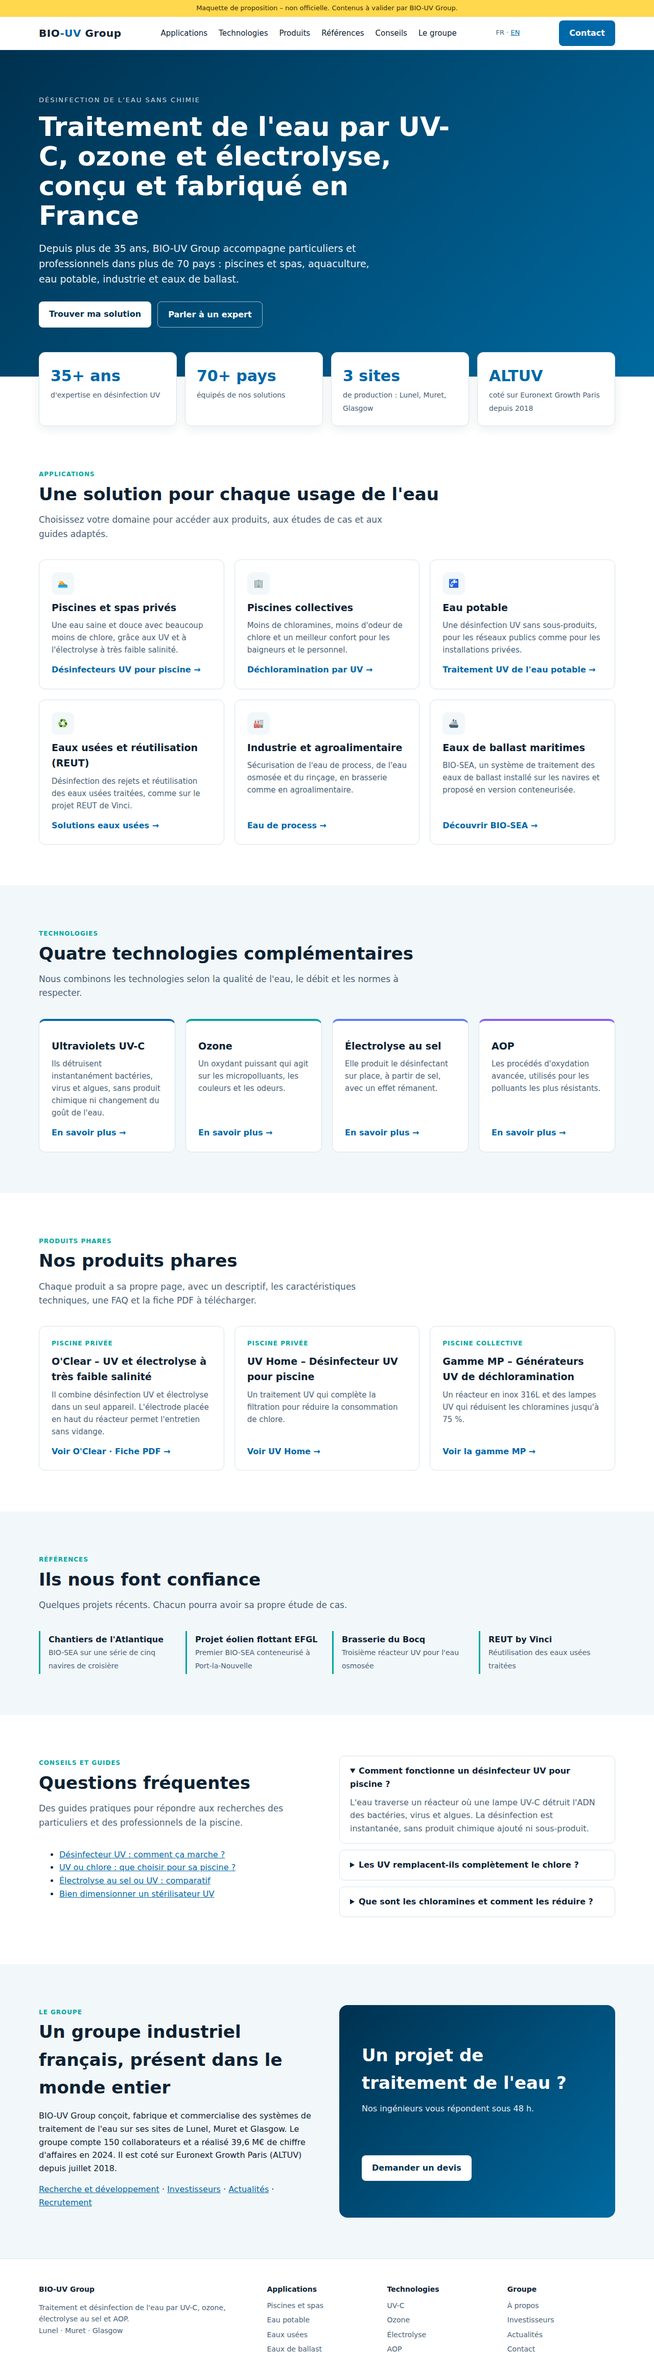
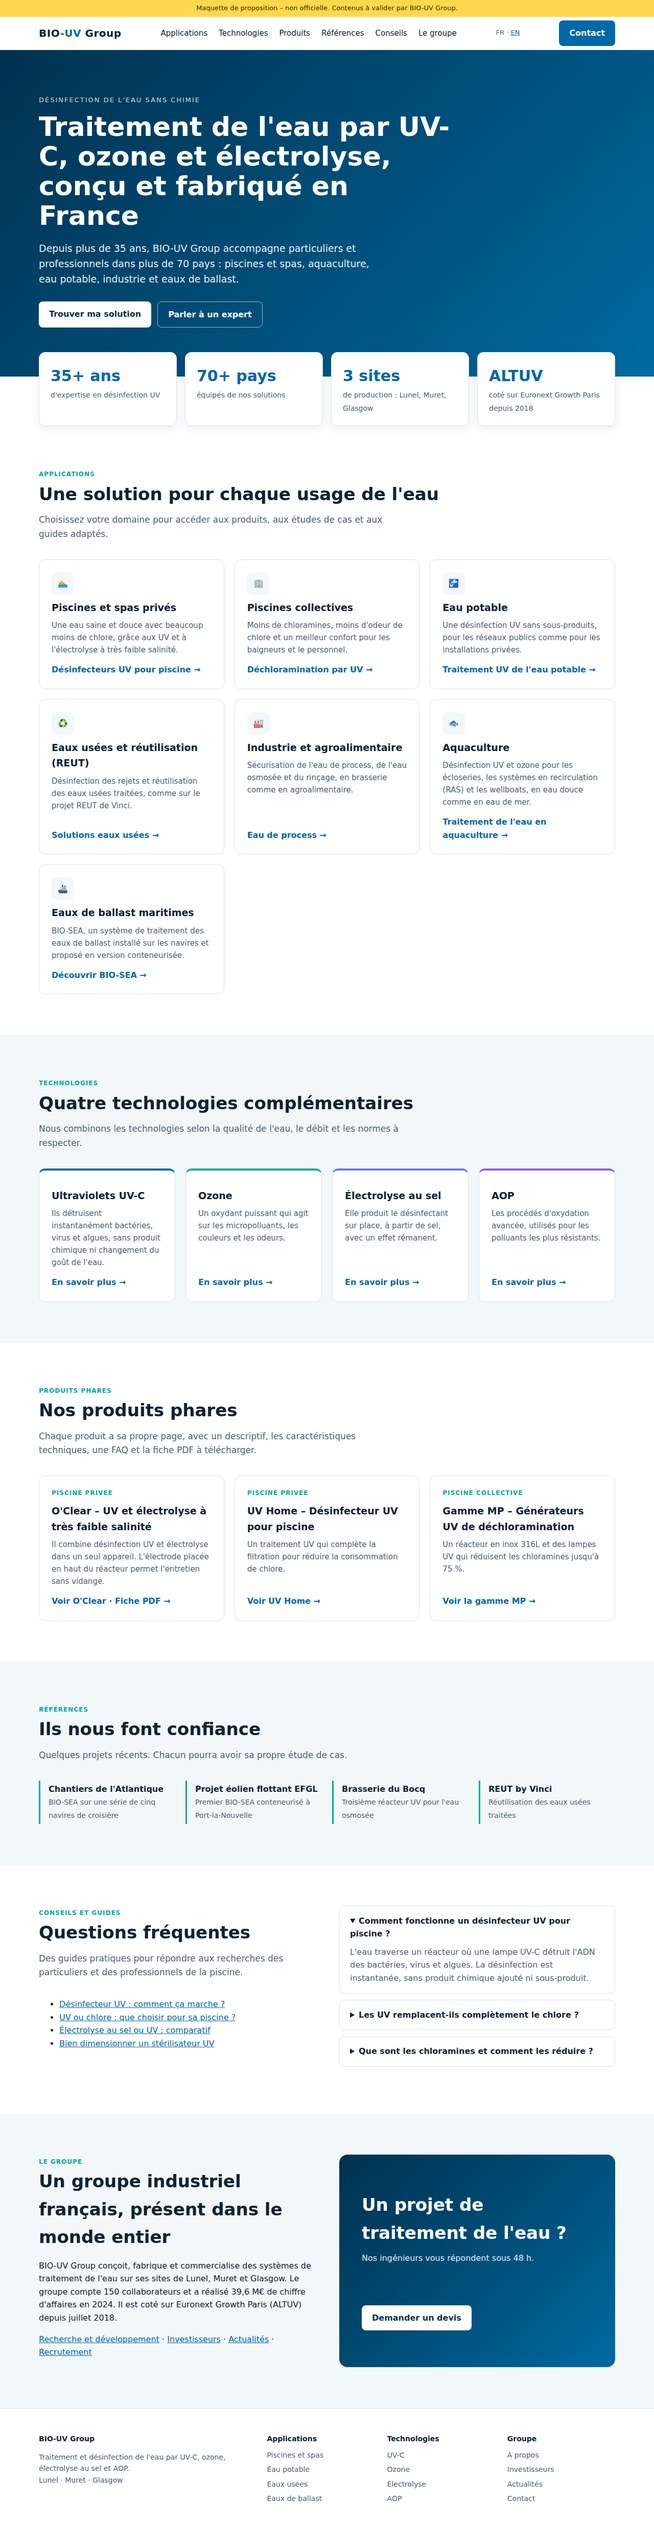
Add aquaculture division page to BIO-UV mockup and link it from homepage
Claude-Session: https://claude.ai/code/session_01VvC67jKEJB5b4yxnGfWvWf

diff --git a/proposals/bio-uv/aquaculture.html b/proposals/bio-uv/aquaculture.html
@@ -1,0 +1,363 @@
+<!doctype html>
+<html lang="fr">
+<head>
+<meta charset="utf-8">
+<meta name="viewport" content="width=device-width, initial-scale=1">
+<title>Traitement de l'eau en aquaculture : UV et ozone pour RAS, écloseries et wellboats | BIO-UV</title>
+<meta name="description" content="Désinfection UV et ozone pour l'aquaculture : écloseries, systèmes en recirculation (RAS) et wellboats. Moins de mortalité, sans chimie, en eau douce comme en eau de mer. Réacteurs fermés, canaux ouverts, générateurs d'ozone.">
+<link rel="canonical" href="https://www.bio-uv.com/fr/solutions/aquaculture/">
+<link rel="alternate" hreflang="fr" href="https://www.bio-uv.com/fr/solutions/aquaculture/">
+<link rel="alternate" hreflang="en" href="https://www.bio-uv.com/en/solutions/aquaculture/">
+<link rel="alternate" hreflang="x-default" href="https://www.bio-uv.com/en/solutions/aquaculture/">
+<meta property="og:type" content="website">
+<meta property="og:title" content="Aquaculture : désinfection UV et ozone | BIO-UV Group">
+<meta property="og:description" content="Des solutions UV et ozone pour les écloseries, les RAS et les wellboats, en eau douce comme en eau de mer.">
+<script type="application/ld+json">
+{
+  "@context": "https://schema.org",
+  "@graph": [
+    { "@type": "BreadcrumbList", "itemListElement": [
+      { "@type": "ListItem", "position": 1, "name": "Accueil", "item": "https://www.bio-uv.com/fr/" },
+      { "@type": "ListItem", "position": 2, "name": "Solutions", "item": "https://www.bio-uv.com/fr/solutions/" },
+      { "@type": "ListItem", "position": 3, "name": "Aquaculture", "item": "https://www.bio-uv.com/fr/solutions/aquaculture/" } ] },
+    { "@type": "FAQPage", "mainEntity": [
+      { "@type": "Question", "name": "UV ou ozone : que choisir pour un élevage aquacole ?",
+        "acceptedAnswer": { "@type": "Answer", "text": "Les UV désinfectent l'eau sans laisser de résidu. L'ozone désinfecte aussi, mais en plus il oxyde la matière organique, clarifie l'eau et augmente l'oxygène dissous. En RAS, on combine souvent les deux : l'ozone pour la qualité de l'eau, puis les UV pour la désinfection finale et l'élimination de l'ozone résiduel." } },
+      { "@type": "Question", "name": "Les UV fonctionnent-ils en eau de mer ?",
+        "acceptedAnswer": { "@type": "Answer", "text": "Oui. Les réacteurs sont conçus avec des matériaux résistants à la corrosion, pour l'eau douce comme pour l'eau de mer." } },
+      { "@type": "Question", "name": "Comment dimensionner un réacteur UV pour une écloserie ?",
+        "acceptedAnswer": { "@type": "Answer", "text": "Le dimensionnement dépend du débit, de la transmittance UV de l'eau et des pathogènes ciblés, qui fixent la dose UV à atteindre. Nos ingénieurs font ce calcul à partir de vos données d'exploitation." } }
+    ] }
+  ]
+}
+</script>
+<style>
+:root{
+  --bg:#ffffff; --bg-alt:#f2f7fa; --ink:#0d2233; --muted:#4a6275; --line:#d7e3ea;
+  --brand:#0068a8; --brand-ink:#ffffff; --accent:#00a6a0; --card:#ffffff;
+  --hero1:#00314f; --hero2:#006aa0;
+}
+@media (prefers-color-scheme: dark){
+  :root:not([data-theme="light"]){
+    --bg:#0b1720; --bg-alt:#11212d; --ink:#e6f0f5; --muted:#9db3c2; --line:#22394a;
+    --brand:#3fa9e8; --brand-ink:#04131c; --accent:#3fd0c9; --card:#132634;
+    --hero1:#021a2a; --hero2:#0a4569;
+  }
+}
+:root[data-theme="dark"]{
+  --bg:#0b1720; --bg-alt:#11212d; --ink:#e6f0f5; --muted:#9db3c2; --line:#22394a;
+  --brand:#3fa9e8; --brand-ink:#04131c; --accent:#3fd0c9; --card:#132634;
+  --hero1:#021a2a; --hero2:#0a4569;
+}
+*{box-sizing:border-box}
+html{scroll-behavior:smooth}
+body{margin:0;background:var(--bg);color:var(--ink);font:16px/1.6 system-ui,-apple-system,"Segoe UI",Roboto,sans-serif}
+a{color:var(--brand)}
+.wrap{max-width:1160px;margin:0 auto;padding:0 16px}
+.mock{background:#ffd84d;color:#3a2e00;text-align:center;font-size:13px;padding:6px 16px}
+header.top{position:sticky;top:0;z-index:10;background:var(--bg);border-bottom:1px solid var(--line)}
+.nav{display:flex;align-items:center;justify-content:space-between;gap:16px;height:64px}
+.logo{font-weight:800;font-size:20px;letter-spacing:.5px;color:var(--ink);text-decoration:none}
+.logo span{color:var(--brand)}
+.nav ul{display:flex;gap:22px;list-style:none;margin:0;padding:0}
+.nav ul a{color:var(--ink);text-decoration:none;font-weight:500;font-size:15px}
+.nav ul a:hover{color:var(--brand)}
+.lang{font-size:13px;color:var(--muted)}
+.btn{display:inline-block;background:var(--brand);color:var(--brand-ink);padding:12px 20px;border-radius:8px;text-decoration:none;font-weight:600}
+.btn.ghost{background:transparent;color:#fff;border:1px solid rgba(255,255,255,.6)}
+.hero{background:linear-gradient(135deg,var(--hero1),var(--hero2));color:#fff;padding:88px 0 96px}
+.hero .eyebrow{text-transform:uppercase;letter-spacing:2px;font-size:13px;opacity:.8}
+.hero h1{font-size:clamp(30px,5vw,52px);line-height:1.12;margin:12px 0 18px;max-width:820px}
+.hero p{font-size:19px;max-width:680px;opacity:.92}
+.hero .cta{display:flex;gap:12px;flex-wrap:wrap;margin-top:28px}
+.stats{display:grid;grid-template-columns:repeat(4,1fr);gap:16px;margin-top:-48px}
+.stat{background:var(--card);border:1px solid var(--line);border-radius:12px;padding:22px;box-shadow:0 6px 20px rgba(0,40,70,.08)}
+.stat b{display:block;font-size:30px;color:var(--brand)}
+.stat span{color:var(--muted);font-size:14px}
+section{padding:80px 0}
+section.alt{background:var(--bg-alt)}
+h2{font-size:clamp(24px,3.4vw,34px);margin:0 0 10px}
+.lead{color:var(--muted);max-width:720px;margin:0 0 36px;font-size:17px}
+.grid{display:grid;gap:20px}
+.g3{grid-template-columns:repeat(3,1fr)}
+.g4{grid-template-columns:repeat(4,1fr)}
+.g2{grid-template-columns:repeat(2,1fr)}
+.card{background:var(--card);border:1px solid var(--line);border-radius:12px;padding:24px;display:flex;flex-direction:column}
+.card h3{margin:10px 0 8px;font-size:19px}
+.card p{margin:0 0 14px;color:var(--muted);font-size:15px}
+.card a.more{margin-top:auto;font-weight:600;text-decoration:none}
+.ico{width:44px;height:44px;border-radius:10px;background:var(--bg-alt);display:grid;place-items:center;color:var(--brand)}
+.tag{display:inline-block;font-size:12px;font-weight:600;color:var(--accent);text-transform:uppercase;letter-spacing:1px}
+.tech{border-top:4px solid var(--brand)}
+.tech:nth-child(2){border-top-color:var(--accent)}
+.tech:nth-child(3){border-top-color:#5b7cfa}
+.tech:nth-child(4){border-top-color:#8a5cf6}
+.refs{display:grid;grid-template-columns:repeat(4,1fr);gap:20px}
+.ref{border-left:3px solid var(--accent);padding:4px 0 4px 16px}
+.ref b{display:block}
+.ref span{color:var(--muted);font-size:14px}
+details{background:var(--card);border:1px solid var(--line);border-radius:10px;padding:16px 20px;margin-bottom:12px}
+summary{cursor:pointer;font-weight:600}
+details p{color:var(--muted);margin:10px 0 0}
+.contact{background:linear-gradient(135deg,var(--hero1),var(--hero2));color:#fff;border-radius:16px;padding:44px;display:flex;justify-content:space-between;align-items:center;gap:24px;flex-wrap:wrap}
+.contact h2{color:#fff}
+.contact p{opacity:.9;margin:0}
+footer{border-top:1px solid var(--line);padding:48px 0 32px;color:var(--muted);font-size:14px}
+footer .cols{display:grid;grid-template-columns:2fr 1fr 1fr 1fr;gap:24px}
+footer h4{color:var(--ink);margin:0 0 10px;font-size:14px}
+footer ul{list-style:none;padding:0;margin:0}
+footer li{margin:6px 0}
+footer a{color:var(--muted);text-decoration:none}
+@media (max-width:900px){
+  .nav ul{display:none}
+  .stats,.g4,.refs{grid-template-columns:repeat(2,1fr)}
+  .g3{grid-template-columns:1fr 1fr}
+  footer .cols{grid-template-columns:1fr 1fr}
+}
+@media (max-width:560px){
+  .stats,.g4,.g3,.g2,.refs{grid-template-columns:1fr}
+  .hero{padding:56px 0 80px}
+  section{padding:56px 0}
+  .contact{padding:28px}
+  .lang{display:none}
+}
+</style>
+<style>
+.stat b{font-size:22px;line-height:1.25}
+.crumbs{font-size:13px;opacity:.8;margin-bottom:14px}
+.crumbs a{color:#fff}
+.flow{display:grid;grid-template-columns:repeat(5,1fr);gap:0;counter-reset:s}
+.step{position:relative;background:var(--card);border:1px solid var(--line);padding:18px;font-size:14px}
+.step:first-child{border-radius:12px 0 0 12px}.step:last-child{border-radius:0 12px 12px 0}
+.step b{display:block;margin-bottom:4px}
+.step.hl{background:var(--brand);color:var(--brand-ink);border-color:var(--brand)}
+.step.hl span{color:var(--brand-ink);opacity:.9}
+.step span{color:var(--muted)}
+table{width:100%;border-collapse:collapse;background:var(--card);border:1px solid var(--line);border-radius:12px;overflow:hidden;font-size:15px}
+th,td{text-align:left;padding:14px 16px;border-bottom:1px solid var(--line);vertical-align:top}
+th{background:var(--bg-alt)}
+.tablewrap{overflow-x:auto}
+.check{list-style:none;padding:0;margin:0}
+.check li{padding-left:26px;position:relative;margin:8px 0}
+.check li:before{content:"✓";position:absolute;left:0;color:var(--accent);font-weight:700}
+@media (max-width:900px){.flow{grid-template-columns:1fr}.step,.step:first-child,.step:last-child{border-radius:0}.step:first-child{border-radius:12px 12px 0 0}.step:last-child{border-radius:0 0 12px 12px}}
+</style>
+</head>
+<body>
+<div class="mock">Maquette de proposition – non officielle. Contenus à valider par BIO-UV Group.</div>
+
+<header class="top">
+  <div class="wrap nav">
+    <a class="logo" href="index.html">BIO<span>-UV</span> Group</a>
+    <nav aria-label="Navigation principale">
+      <ul>
+        <li><a href="index.html#applications">Applications</a></li>
+        <li><a href="index.html#technologies">Technologies</a></li>
+        <li><a href="index.html#produits">Produits</a></li>
+        <li><a href="index.html#references">Références</a></li>
+        <li><a href="index.html#conseils">Conseils</a></li>
+        <li><a href="index.html#groupe">Le groupe</a></li>
+      </ul>
+    </nav>
+    <span class="lang">FR · <a href="#">EN</a></span>
+    <a class="btn" href="#contact">Contact</a>
+  </div>
+</header>
+
+<main>
+  <section class="hero" aria-labelledby="h1">
+    <div class="wrap">
+      <nav class="crumbs" aria-label="Fil d'Ariane"><a href="index.html">Accueil</a> › <a href="index.html#applications">Solutions</a> › Aquaculture</nav>
+      <div class="eyebrow">Aquaculture et pisciculture</div>
+      <h1 id="h1">Traitement de l'eau en aquaculture : désinfection UV et ozone pour écloseries, RAS et wellboats</h1>
+      <p>Des poissons, crustacés et mollusques en meilleure santé, une mortalité réduite et des rejets plus propres, sans produits chimiques, en eau douce comme en eau de mer.</p>
+      <div class="cta">
+        <a class="btn" href="#contact" style="background:#fff;color:#00314f">Dimensionner mon installation</a>
+        <a class="btn ghost" href="#usages">Voir les solutions</a>
+      </div>
+    </div>
+  </section>
+
+  <div class="wrap stats" aria-label="Bénéfices clés">
+    <div class="stat"><b>Sans chimie</b><span>ni résidu dans les bassins</span></div>
+    <div class="stat"><b>Eau douce et eau de mer</b><span>des matériaux résistants à la corrosion</span></div>
+    <div class="stat"><b>UV + ozone</b><span>une seule source pour les deux technologies</span></div>
+    <div class="stat"><b>Écloserie → wellboat</b><span>du naissain au transport du poisson vivant</span></div>
+  </div>
+
+  <section id="enjeux" aria-labelledby="h-enj">
+    <div class="wrap grid g2" style="gap:48px;align-items:center">
+      <div>
+        <span class="tag">Enjeux</span>
+        <h2 id="h-enj">La qualité de l'eau décide de la rentabilité de l'élevage</h2>
+        <p class="lead" style="margin-bottom:16px">Dans un élevage intensif, un seul pathogène peut décimer un lot. Il faut maîtriser la qualité de l'eau à chaque étape, sans fragiliser les animaux ni l'environnement.</p>
+        <ul class="check">
+          <li>Réduire la mortalité et le recours aux traitements médicamenteux</li>
+          <li>Garder une eau claire et bien oxygénée en recirculation</li>
+          <li>Respecter les exigences de biosécurité et de rejet</li>
+          <li>Limiter l'entretien et la consommation d'énergie</li>
+        </ul>
+      </div>
+      <div class="card">
+        <span class="tag">Pathogènes ciblés</span>
+        <h3>Les UV et l'ozone inactivent :</h3>
+        <p>les bactéries (vibrioses, furonculose…), les virus, les parasites, les champignons et les algues présents dans l'eau d'appoint, l'eau recirculée ou l'eau rejetée.</p>
+        <p style="margin:0"><em>À compléter par BIO-UV avec les doses de référence par pathogène.</em></p>
+      </div>
+    </div>
+  </section>
+
+  <section id="usages" class="alt" aria-labelledby="h-us">
+    <div class="wrap">
+      <span class="tag">Solutions par usage</span>
+      <h2 id="h-us">Une solution pour chaque étape de l'élevage</h2>
+      <p class="lead">Chaque usage a sa page dédiée, optimisée pour sa propre recherche (« UV écloserie », « ozone RAS », « désinfection wellboat »…).</p>
+      <div class="grid g3">
+        <article class="card">
+          <div class="ico" aria-hidden="true">🥚</div>
+          <h3>Écloseries et nurseries</h3>
+          <p>Protection des œufs, des larves et du naissain, aux stades les plus sensibles. Désinfection UV de l'eau d'arrivée et de l'eau recirculée.</p>
+          <a class="more" href="#">UV pour écloserie →</a>
+        </article>
+        <article class="card">
+          <div class="ico" aria-hidden="true">🔁</div>
+          <h3>Systèmes en recirculation (RAS)</h3>
+          <p>L'ozone oxyde la matière organique, clarifie l'eau et augmente l'oxygène dissous. Les UV assurent ensuite la désinfection finale.</p>
+          <a class="more" href="#">Ozone et UV pour RAS →</a>
+        </article>
+        <article class="card">
+          <div class="ico" aria-hidden="true">🚢</div>
+          <h3>Wellboats</h3>
+          <p>Désinfection de l'eau entre deux chargements pour limiter la transmission de maladies d'un site à l'autre. Les systèmes sont compacts et conçus pour le milieu marin.</p>
+          <a class="more" href="#">Désinfection des wellboats →</a>
+        </article>
+        <article class="card">
+          <div class="ico" aria-hidden="true">🐟</div>
+          <h3>Pisciculture en eau douce</h3>
+          <p>Truite, esturgeon, perche… Traitement de l'eau d'appoint et des rejets dans les élevages en circuit ouvert ou semi-fermé.</p>
+          <a class="more" href="#">Pisciculture eau douce →</a>
+        </article>
+        <article class="card">
+          <div class="ico" aria-hidden="true">🦐</div>
+          <h3>Crustacés et coquillages</h3>
+          <p>Crevettes, huîtres, moules… Purification et sécurisation de l'eau de mer pour l'élevage et la dépuration.</p>
+          <a class="more" href="#">Conchyliculture et crevettes →</a>
+        </article>
+        <article class="card">
+          <div class="ico" aria-hidden="true">🌊</div>
+          <h3>Traitement des rejets</h3>
+          <p>Désinfection de l'eau rejetée pour protéger le milieu naturel et les populations sauvages.</p>
+          <a class="more" href="#">Rejets aquacoles →</a>
+        </article>
+      </div>
+    </div>
+  </section>
+
+  <section id="ras" aria-labelledby="h-ras">
+    <div class="wrap">
+      <span class="tag">Exemple de chaîne de traitement</span>
+      <h2 id="h-ras">Où placer l'ozone et les UV dans une boucle RAS</h2>
+      <p class="lead">Un schéma type, à adapter à chaque installation. Les étapes en couleur sont celles que couvre BIO-UV Group.</p>
+      <div class="flow">
+        <div class="step"><b>1. Bassins d'élevage</b><span>Eau chargée en matière organique</span></div>
+        <div class="step"><b>2. Filtration mécanique</b><span>Tamis ou filtre à tambour</span></div>
+        <div class="step"><b>3. Biofiltre</b><span>Nitrification</span></div>
+        <div class="step hl"><b>4. Ozone</b><span>Oxydation, clarification, oxygène dissous</span></div>
+        <div class="step hl"><b>5. UV-C</b><span>Désinfection finale et élimination de l'ozone résiduel</span></div>
+      </div>
+    </div>
+  </section>
+
+  <section id="technologies" class="alt" aria-labelledby="h-tech">
+    <div class="wrap">
+      <span class="tag">Technologies</span>
+      <h2 id="h-tech">UV ou ozone : comment choisir ?</h2>
+      <p class="lead">Les deux technologies se complètent. Ce tableau aide à les comparer ; nos ingénieurs vous conseillent ensuite selon votre installation.</p>
+      <div class="tablewrap">
+        <table>
+          <thead><tr><th>Critère</th><th>Désinfection UV-C</th><th>Ozone</th></tr></thead>
+          <tbody>
+            <tr><td>Action principale</td><td>Inactive les micro-organismes</td><td>Désinfecte et oxyde les polluants organiques et minéraux</td></tr>
+            <tr><td>Résidu dans l'eau</td><td>Aucun</td><td>Résiduel à maîtriser (souvent éliminé par les UV en aval)</td></tr>
+            <tr><td>Clarté et couleur de l'eau</td><td>Pas d'effet</td><td>Améliore nettement la clarté</td></tr>
+            <tr><td>Oxygène dissous</td><td>Pas d'effet</td><td>Augmente l'oxygène dissous</td></tr>
+            <tr><td>Usages types</td><td>Écloseries, eau d'arrivée, rejets, wellboats</td><td>RAS, eau très chargée, wellboats</td></tr>
+          </tbody>
+        </table>
+      </div>
+      <p style="margin-top:16px"><a href="#">Traitement UV en aquaculture →</a> · <a href="#">Traitement à l'ozone en aquaculture →</a></p>
+    </div>
+  </section>
+
+  <section id="produits" aria-labelledby="h-prod">
+    <div class="wrap">
+      <span class="tag">Gammes</span>
+      <h2 id="h-prod">Nos équipements pour l'aquaculture</h2>
+      <p class="lead">Chaque gamme a sa fiche produit en HTML (caractéristiques, débits, matériaux, FAQ), avec la fiche technique PDF à télécharger.</p>
+      <div class="grid g4">
+        <article class="card"><span class="tag">UV</span><h3>Réacteurs UV fermés</h3><p>Montés directement sur la canalisation, pour les écloseries, les RAS et les wellboats. Exemple : la gamme Integra (Triogen).</p><a class="more" href="#">Voir la gamme →</a></article>
+        <article class="card"><span class="tag">UV</span><h3>UV en canal ouvert</h3><p>Pour les gros débits en gravitaire, notamment le traitement des eaux d'arrivée et de rejet.</p><a class="more" href="#">Voir la gamme →</a></article>
+        <article class="card"><span class="tag">UV</span><h3>UV TTPE AM</h3><p>Un réacteur UV conçu pour l'eau de mer et les applications marines.</p><a class="more" href="#">Voir le produit →</a></article>
+        <article class="card"><span class="tag">Ozone</span><h3>Générateurs d'ozone</h3><p>Pour l'eau douce et l'eau de mer, en RAS comme à bord des wellboats. Une expertise apportée par Triogen.</p><a class="more" href="#">Voir la gamme →</a></article>
+      </div>
+    </div>
+  </section>
+
+  <section id="references" class="alt" aria-labelledby="h-ref">
+    <div class="wrap">
+      <span class="tag">Références et partenaires</span>
+      <h2 id="h-ref">Ils nous font confiance en aquaculture</h2>
+      <p class="lead">Chaque projet pourra avoir son étude de cas détaillée : contexte, installation, résultats chiffrés.</p>
+      <div class="refs">
+        <div class="ref"><b>Producteur mondial de saumon</b><span>Commande en 2026 pour la désinfection de l'eau d'un wellboat</span></div>
+        <div class="ref"><b>Innovasea</b><span>Accord de distribution pour élargir l'accès au marché aquacole international</span></div>
+        <div class="ref"><b>Triogen</b><span>Une marque du groupe, experte en ozone et en AOP</span></div>
+        <div class="ref"><b>Votre élevage ?</b><span>Contactez-nous pour une étude de cas</span></div>
+      </div>
+    </div>
+  </section>
+
+  <section id="faq" aria-labelledby="h-faq">
+    <div class="wrap grid g2" style="align-items:start;gap:48px">
+      <div>
+        <span class="tag">Guides</span>
+        <h2 id="h-faq">Questions fréquentes en aquaculture</h2>
+        <p class="lead">Des articles qui répondent aux questions des aquaculteurs et renvoient vers les solutions.</p>
+        <ul>
+          <li><a href="#">Dose UV : comment la calculer pour son élevage ?</a></li>
+          <li><a href="#">Ozone en RAS : bonnes pratiques et sécurité</a></li>
+          <li><a href="#">Biosécurité des wellboats : la réglementation</a></li>
+          <li><a href="#">Transmittance UV de l'eau : pourquoi elle compte</a></li>
+        </ul>
+      </div>
+      <div>
+        <details open><summary>UV ou ozone : que choisir pour un élevage aquacole ?</summary><p>Les UV désinfectent l'eau sans laisser de résidu. L'ozone désinfecte aussi, mais en plus il oxyde la matière organique, clarifie l'eau et augmente l'oxygène dissous. En RAS, on combine souvent les deux : l'ozone pour la qualité de l'eau, puis les UV pour la désinfection finale et l'élimination de l'ozone résiduel.</p></details>
+        <details><summary>Les UV fonctionnent-ils en eau de mer ?</summary><p>Oui. Les réacteurs sont conçus avec des matériaux résistants à la corrosion, pour l'eau douce comme pour l'eau de mer.</p></details>
+        <details><summary>Comment dimensionner un réacteur UV pour une écloserie ?</summary><p>Le dimensionnement dépend du débit, de la transmittance UV de l'eau et des pathogènes ciblés, qui fixent la dose UV à atteindre. Nos ingénieurs font ce calcul à partir de vos données d'exploitation.</p></details>
+      </div>
+    </div>
+  </section>
+
+  <section class="alt" aria-label="Contact">
+    <div class="wrap">
+      <div class="contact" id="contact">
+        <div>
+          <h2>Faites dimensionner votre installation</h2>
+          <p>Indiquez-nous l'espèce, le débit, le type d'eau et le stade d'élevage : un ingénieur aquaculture vous propose une solution.</p>
+        </div>
+        <a class="btn" href="#" style="background:#fff;color:#00314f">Demander une étude</a>
+      </div>
+    </div>
+  </section>
+</main>
+
+<footer>
+  <div class="wrap cols">
+    <div><b style="color:var(--ink)">BIO-UV Group</b><p>Traitement et désinfection de l'eau par UV-C, ozone, électrolyse au sel et AOP.<br>Lunel · Muret · Glasgow</p></div>
+    <div><h4>Aquaculture</h4><ul><li><a href="#">Écloseries</a></li><li><a href="#">RAS</a></li><li><a href="#">Wellboats</a></li><li><a href="#">Rejets</a></li></ul></div>
+    <div><h4>Technologies</h4><ul><li><a href="#">UV-C</a></li><li><a href="#">Ozone</a></li><li><a href="#">Électrolyse</a></li><li><a href="#">AOP</a></li></ul></div>
+    <div><h4>Groupe</h4><ul><li><a href="index.html">Accueil</a></li><li><a href="#">Investisseurs</a></li><li><a href="#">Actualités</a></li><li><a href="#">Contact</a></li></ul></div>
+  </div>
+</footer>
+</body>
+</html>

diff --git a/proposals/bio-uv/index.html b/proposals/bio-uv/index.html
@@ -209,6 +209,12 @@ footer a{color:var(--muted);text-decoration:none}
           <a class="more" href="#">Eau de process →</a>
         </article>
         <article class="card">
+          <div class="ico" aria-hidden="true">🐟</div>
+          <h3>Aquaculture</h3>
+          <p>Désinfection UV et ozone pour les écloseries, les systèmes en recirculation (RAS) et les wellboats, en eau douce comme en eau de mer.</p>
+          <a class="more" href="aquaculture.html">Traitement de l'eau en aquaculture →</a>
+        </article>
+        <article class="card">
           <div class="ico" aria-hidden="true">🚢</div>
           <h3>Eaux de ballast maritimes</h3>
           <p>BIO-SEA, un système de traitement des eaux de ballast installé sur les navires et proposé en version conteneurisée.</p>
